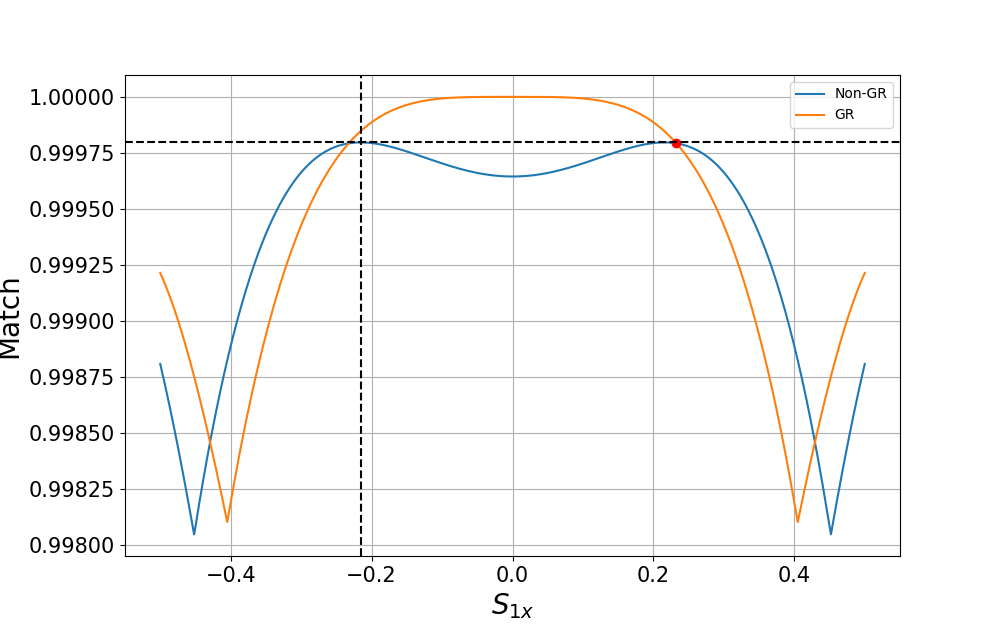
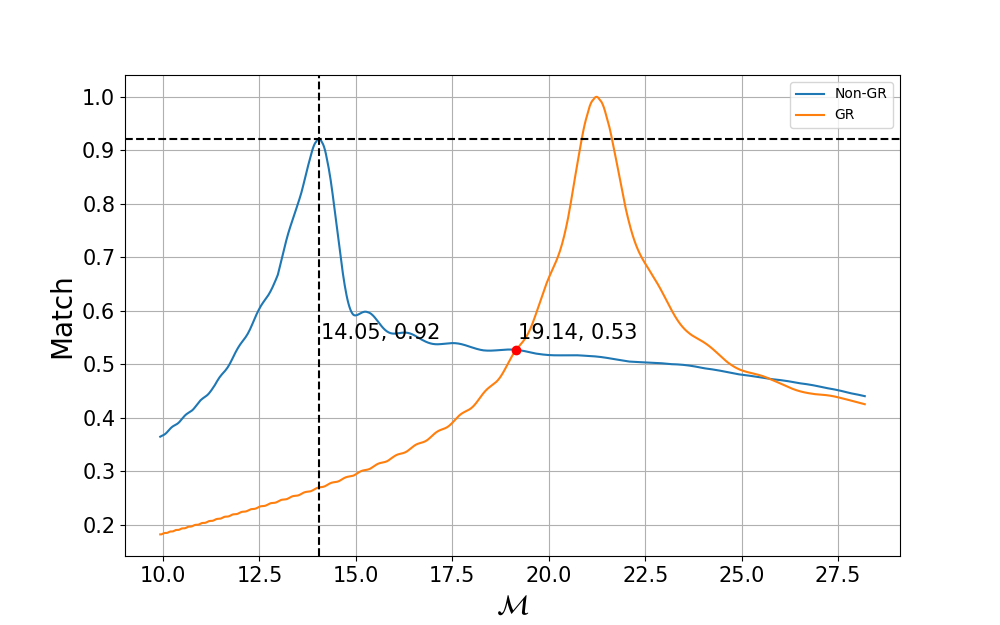
More intercept plots

diff --git a/GR_nGR_match.py b/GR_nGR_match.py
@@ -1,8 +1,8 @@
 #!/usr/bin/env python
 
-#import matplotlib
+import matplotlib
 
-#matplotlib.use('Agg')
+matplotlib.use('Agg')
 
 import numpy as np
 import pycbc
@@ -62,8 +62,8 @@ p['delta_t'] = 1./4096
 p['f_lower'] = 20
 p['approximant'] = 'IMRPhenomPv2'
 
-#M1 = np.linspace(5, 35, 1000) # The mass array
-S1 = np.linspace(-0.5, 0.5, 1000)
+M1 = np.linspace(5, 35, 1000) # The mass array
+#S1 = np.linspace(-0.5, 0.5, 1000)
 pmatch = np.zeros(1000) # Non-GR match array
 qmatch = np.zeros(1000) # GR match array
 
@@ -73,15 +73,15 @@ val = np.linspace(-0.5, 0.5, 20)
 
 for ii in val:
 	
-	p['dalpha3'] = ii # Non-GR parameter
+	p['dchi0'] = ii # Non-GR parameter
 	j = 0 # Counting parameter
 	
-#	m_chirp = np.zeros(int(len(pmatch)))
+	m_chirp = np.zeros(1000)	
 	
-	for i in S1:
+	for i in M1:
 
-		p['spin1x'] = i
-		q['spin1x'] = i	
+		p['mass1'] = i
+		q['mass1'] = i	
 
         	pp, pc = pycbc.waveform.waveform.get_td_waveform(**p)
         	qp, qc = pycbc.waveform.waveform.get_td_waveform(**q)
@@ -101,20 +101,20 @@ for ii in val:
 		# Increasing counting parameter
 		j += 1
 	
-	#	m_chirp[j] = ((i*30.0)**(3.0/5.0))/((i + 30.0)**(1.0/5.0))	
+		m_chirp[j-1] = ((i*30.0)**(3.0/5.0))/((i + 30.0)**(1.0/5.0))	
 	
 	# Plotting the points where the curves intersect
 	idx = np.argwhere(np.diff(np.sign(pmatch - qmatch)) != 0).reshape(-1) + 0
 		
 	# Getting rid of unwanted intersection points
-	x_int = S1[idx]
+	x_int = m_chirp[idx]
 	y_int = pmatch[idx]
 
 		
 	fig = plt.figure(figsize  = (10.0, 6.25))
 	ax = fig.add_subplot(1,1,1)
-	k = ax.plot(S1, pmatch, label = 'Non-GR')
-	l = ax.plot(S1, qmatch, label = 'GR')	
+	k = ax.plot(m_chirp, pmatch, label = 'Non-GR')
+	l = ax.plot(m_chirp, qmatch, label = 'GR')	
 
 	# Plotting the point with maximum match  where the curves intersect
 #	max_y = np.argmax(y_int)
@@ -133,23 +133,23 @@ for ii in val:
 #		ax.annotate('%.2f, %.2f'%(0.5 - x_int, y_int), xy=(0.5 - x_int, y_int), xytext= (0.45 - x_int, y_int + 0.02), fontsize = 15) 
 
 	index = np.where(pmatch == pmatch.max())
-	x_max = S1[int(index[0])]
+	x_max = m_chirp[int(index[0])]
 	y_max = pmatch[int(index[0])]
 	
         ax.annotate('%.2f, %.2f'%(x_max, y_max), xy=(x_max, y_max), xytext=(x_max + 0.05, y_int + 0.02), fontsize = 15)
 
 	# Formatting
-	ax.set_xlabel('$S_{1x}$', fontsize = 20)
+	ax.set_xlabel('$\mathcal{M}$', fontsize = 20)
 	ax.set_ylabel('Match', fontsize = 20)
 #	ax.set_title(('Match plot for varying $M_1$'), fontsize = 20)
 	ax.xaxis.set_tick_params(labelsize=15)
 	ax.yaxis.set_tick_params(labelsize=15)
-	ax.axvline(x_max, linestyle = '--', color = 'k')
-#	ax.axvline(0.5 - x_max, linestyle = '--', color = 'k')
-	ax.axhline(y_max, linestyle = '--', color = 'k')
+#	ax.axvline(x_max, linestyle = '--', color = 'k')
+#	ax.axvline(-x_max, linestyle = '--', color = 'k')
+#	ax.axhline(y_max, linestyle = '--', color = 'k')
 #	ax.set_xlim(5, 35)
 	plt.legend(loc = 'best')
 	plt.grid()
-	plt.savefig('/home/c1320229/non-GR/intercept_dalpha3_' + '%s'%ii + 'spin.png')
-	plt.show()
+	plt.savefig('/home/c1320229/non-GR/intercept_dchi0_' + '%s'%ii + '.png')
+#	plt.show()
 #	plt.close()

diff --git a/nonGR_m1_match.py b/nonGR_m1_match.py
@@ -92,9 +92,9 @@ p['f_lower'] = 20
 p['approximant'] = 'IMRPhenomPv2'
 
 #nGR = ['dchi0','dchi1','dchi2','dchi3','dchi4','dchi6',
-nGR = ['dalpha2','dalpha3','dalpha4','dbeta2','dbeta3'] # hashed out to test one param
+#nGR = ['dalpha2','dalpha3','dalpha4','dbeta2','dbeta3'] # hashed out to test one param
 
-#nGR = ['dbeta3']
+nGR = ['dchi0']
 
 ngrparam = np.linspace(-0.5, 0.5, 100) # range of nGR params
 #mass1 = np.linspace(15, 45, 100) # Range of masses
@@ -150,8 +150,8 @@ for nonGR in nGR:
 	plt.grid()
 	plt.savefig('/home/c1320229/non-GR/dbeta3_match_distribution.png')	
 	plt.show()
-	'''	
-
+			
+	'''
 	fig1 = plt.figure('%s'%nonGR, figsize = (20.0, 13.5))
 	ax1 = fig1.add_subplot(1,1,1)
 	cont = ax1.contourf(ngrparam, spin1, M, 100)
@@ -162,19 +162,21 @@ for nonGR in nGR:
 	colorbar_ax = fig1.add_axes([0.905, 0.11, 0.05, 0.77])
 	cbar = fig1.colorbar(cont, cax = colorbar_ax, format = '%.3f')
 	cbar.ax.tick_params(labelsize = 17)
+	
 	con = ax1.contour(ngrparam, spin1, M, 1 ,levels=levels)
 	'''
 	ax1.axvline(max_2Dx(con), linewidth = 2, linestyle = '--', color = 'k')
         ax1.axvline(min_2Dx(con), linewidth = 2, linestyle = '--', color = 'k')
         ax1.axhline(max_2Dy(con), linewidth = 2, linestyle = '--', color = 'k')
         ax1.axhline(min_2Dy(con), linewidth = 2, linestyle = '--', color = 'k')
-	'''
+	
+	
 	ax1.xaxis.set_tick_params(labelsize=20)
 	ax1.yaxis.set_tick_params(labelsize=20)
 	ax1.clabel(con, color = 'k')
 	plt.savefig('/home/c1320229/non-GR/%s'%nonGR + 'spin1.png')
 #	plt.show()
-	'''
+	
 	fig2 = plt.figure('%s'%nonGR + 'm_chirp', figsize = (20.0, 13.5))
         ax2 = fig2.add_subplot(1,1,1)
         cont = ax2.contourf(ngrparam, m_chirp, M, 100)
@@ -189,5 +191,9 @@ for nonGR in nGR:
         ax2.clabel(con, color = 'k')
         plt.savefig('/home/c1320229/non-GR/%s'%nonGR + 'extended_m_chirp.png')
 #	plt.show()	
-	'''	
+	'''
+	loc = np.where(con==con.max())
+	print loc
+
+		
 	p['%s'%nonGR] = 0.0

diff --git a/nonGR_IMRPhenomPv2.py b/nonGR_IMRPhenomPv2.py
@@ -86,7 +86,7 @@ for nonGR in nGR:
 
 		# If the match is less than 0.97 then break from the loop
 		if m <= 0.97:
-		#	print j
+			print j
 			break
 		# Increasing the non-GR value
 		j += 0.01
@@ -96,7 +96,7 @@ for nonGR in nGR:
 
 	
 	# Plotting and saving the waveforms
-	
+	'''
 	plt.figure('%s'%nonGR, figsize = (10.0, 6.25))
 	plt.plot(hp.sample_times, hp, label = 'GR IMRPhenomPv2')
 	plt.plot(sp.sample_times, sp, label = 'Non-GR IMRPhenomPv2')
@@ -111,3 +111,4 @@ for nonGR in nGR:
 	plt.draw()
 	plt.savefig('/home/c1320229/non-GR/%s'%nonGR+'zero_spin.png', bbox = 'tight')
 	#plt.show()
+	'''

diff --git a/GR_waveforms.py b/GR_waveforms.py
@@ -22,7 +22,7 @@ hp_4, hc_4 = get_td_waveform(approximant = approximant, mass1 = 15, mass2 = 30,
 hp_5, hc_5 = get_td_waveform(approximant = approximant, mass1 = 5, mass2 = 30,
                                 delta_t = dt, f_lower = f_low)
 
-
+'''
 plt.figure()
 plt.plot(hp_5.sample_times, hp_5, label = 'Mass ratio = 6')
 plt.xlabel('Time(s)', fontsize = 20)
@@ -67,3 +67,5 @@ plt.grid()
 plt.legend(loc = 'best')
 plt.savefig('mass_ratio_2_misalligned_spin.png')
 #plt.show() 
+'''
+print max(hp_1), max(hp_2), max(hp_3), max(hp_4), max(hp_5)
